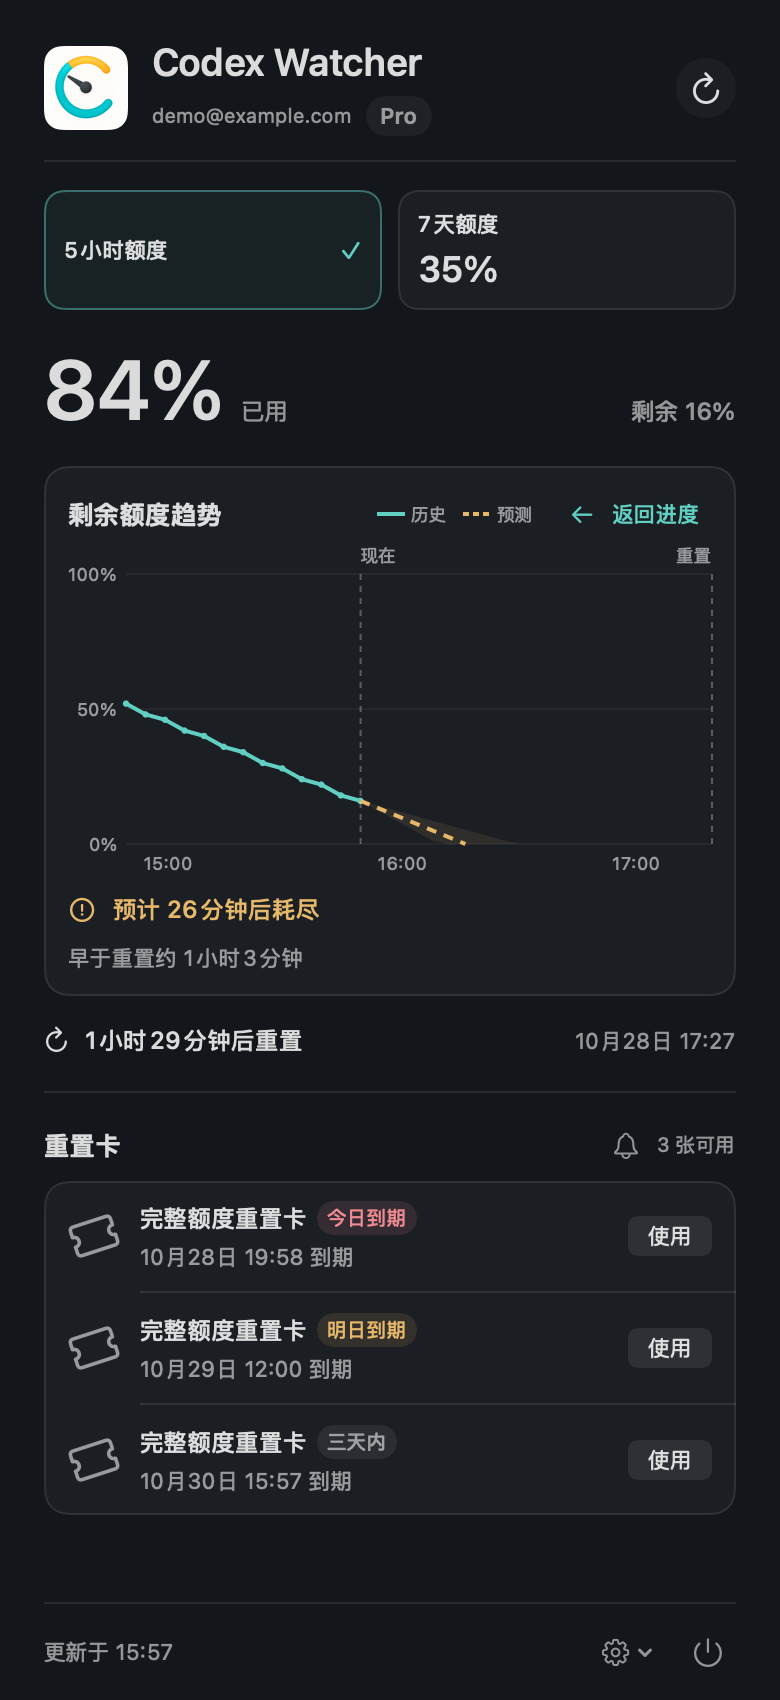
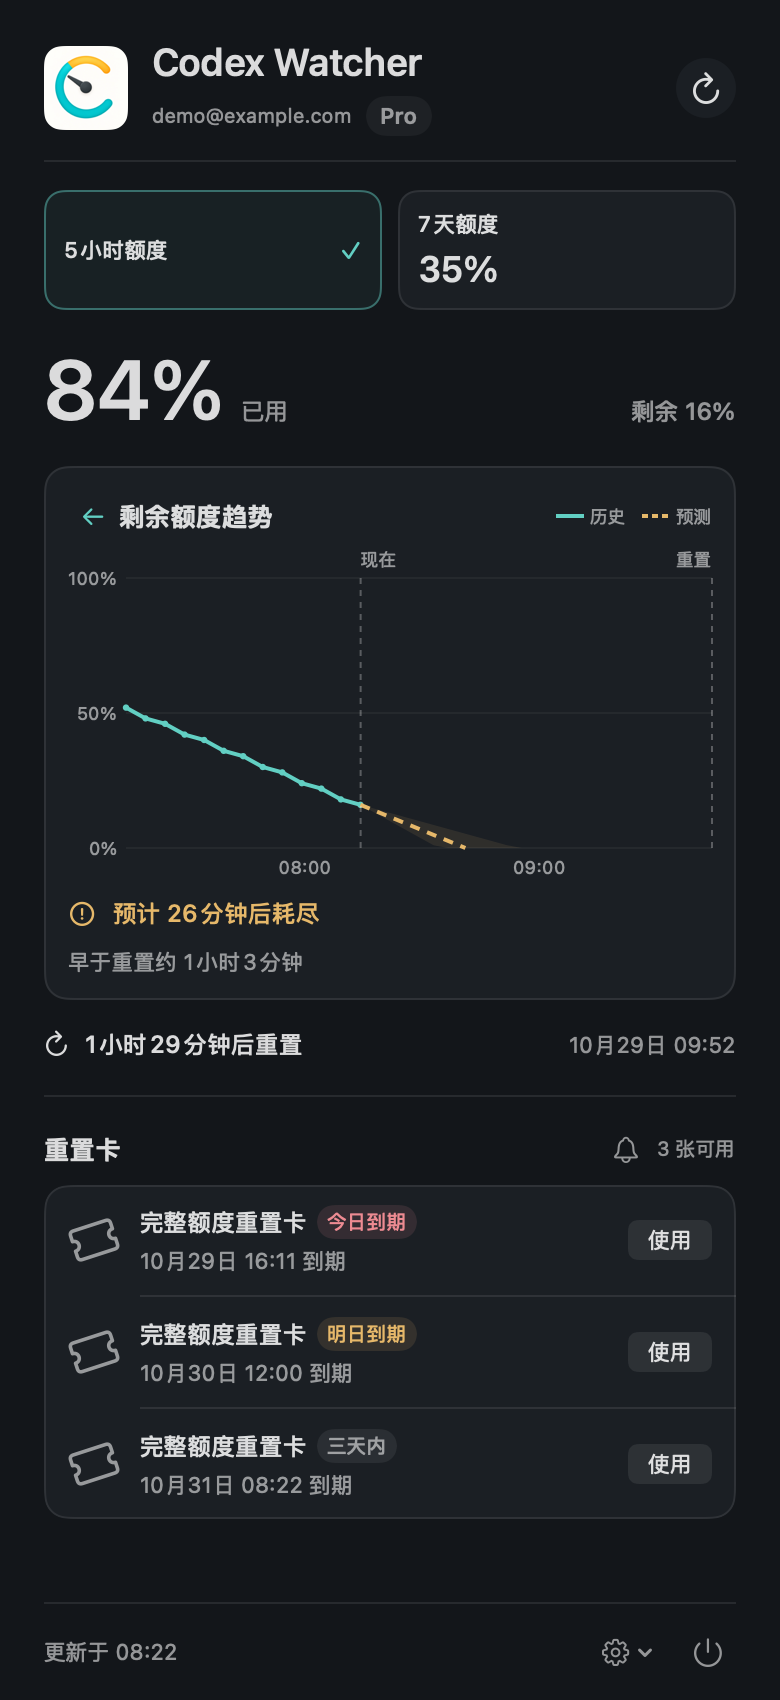
fix: simplify trend navigation and prepare 0.4.3

diff --git a/CodexWatcher/ContentView.swift b/CodexWatcher/ContentView.swift
@@ -305,12 +305,16 @@ private struct DashboardContent: View {
             if showingUsageTrend {
                 UsageTrendView(samples: monitor.trendHistory[window.id] ?? [], quota: window.quota,
                                date: date, stale: stale, storageFailed: monitor.trendStorageFailed,
-                               recoveredHistory: monitor.trendStorageRecovered, headerAction: AnyView(
+                               recoveredHistory: monitor.trendStorageRecovered, headerTitle: AnyView(
                     Button {
                         changeUsagePresentation(false)
                     } label: {
-                        Label("返回进度", systemImage: "arrow.left")
-                            .font(.system(size: 11, weight: .medium))
+                        HStack(spacing: 6) {
+                            Image(systemName: "arrow.left")
+                                .font(.system(size: 11, weight: .medium))
+                                .foregroundStyle(palette.accent)
+                            Text("剩余额度趋势").font(.headline)
+                        }
                             .padding(.horizontal, 6).padding(.vertical, 5)
                             .background(hoveringReturnProgress ? palette.selectedSurface : .clear,
                                         in: RoundedRectangle(cornerRadius: 8))
@@ -319,7 +323,9 @@ private struct DashboardContent: View {
                             .contentShape(Rectangle())
                     }
                     .buttonStyle(.plain)
-                    .foregroundStyle(palette.accent)
+                    .foregroundStyle(.primary)
+                    .help("返回进度")
+                    .accessibilityHint("返回进度")
                     .focusable()
                     .focused($usageControlFocused)
                     .onKeyPress(.space, phases: .down) { _ in

diff --git a/CodexWatcher/UsageTrendView.swift b/CodexWatcher/UsageTrendView.swift
@@ -8,7 +8,7 @@ struct UsageTrendView: View {
     let stale: Bool
     let storageFailed: Bool
     var recoveredHistory = false
-    var headerAction: AnyView? = nil
+    var headerTitle: AnyView? = nil
     @Environment(\.locale) private var locale
     @Environment(\.timeZone) private var timeZone
     @Environment(\.colorScheme) private var colorScheme
@@ -28,11 +28,14 @@ struct UsageTrendView: View {
     var body: some View {
         VStack(alignment: .leading, spacing: 10) {
             HStack {
-                Text("剩余额度趋势").font(.headline)
+                if let headerTitle {
+                    headerTitle
+                } else {
+                    Text("剩余额度趋势").font(.headline)
+                }
                 Spacer()
                 legend("历史", color: palette.accent, dashed: false)
                 legend("预测", color: palette.warning, dashed: true)
-                if let headerAction { headerAction.padding(.leading, 4) }
             }
             Chart {
                 ForEach(Array(history.enumerated()), id: \.offset) { _, sample in
@@ -108,7 +111,7 @@ struct UsageTrendView: View {
         .padding(12)
         .background(palette.surface, in: RoundedRectangle(cornerRadius: 12))
         .overlay(RoundedRectangle(cornerRadius: 12).strokeBorder(palette.separator))
-        .help("根据最近一小时的消耗速度推算，至少需要 10 分钟及 3 个采样点。实线为历史，虚线为预测；淡色范围来自已观测的不同消耗速度，并非统计置信区间。预测随使用强度变化，仅供参考；中断采样或额度恢复后重新积累样本。")
+        .help("按近一小时用量估算，阴影反映消耗速度差异，仅供参考。")
     }
 
     private var warning: Bool {

diff --git a/docs/images/README.md b/docs/images/README.md
@@ -10,7 +10,7 @@
 | [dashboard-dark.png](dashboard-dark.png) | 暗色面板 |
 | [dashboard-progress-hover-light.png](dashboard-progress-hover-light.png) | 全宽进度轴与向外延伸的悬停热区（亮色） |
 | [dashboard-progress-hover-dark.png](dashboard-progress-hover-dark.png) | 全宽进度轴与悬停热区（暗色） |
-| [dashboard-trend-full-light.png](dashboard-trend-full-light.png) | 点击进度区域切换后的趋势视图与重置卡（亮色，拉高窗口展示） |
+| [dashboard-trend-full-light.png](dashboard-trend-full-light.png) | 点击进度区域切换后的趋势视图与重置卡，点击左侧标题返回（亮色，拉高窗口展示） |
 | [dashboard-trend-full-dark.png](dashboard-trend-full-dark.png) | 切换后的趋势视图（暗色，拉高窗口展示） |
 | [usage-trend-light.png](usage-trend-light.png) | 剩余额度历史、走势范围与预测耗尽时间（亮色） |
 | [usage-trend-dark.png](usage-trend-dark.png) | 剩余额度历史与预测（暗色） |

diff --git a/CHANGELOG.md b/CHANGELOG.md
@@ -2,6 +2,11 @@
 
 ## 未发布
 
+## 0.4.3 — 2026-10-29
+
+- 将趋势面板的返回操作合并到左侧标题，移除右侧独立按钮；保留悬停、键盘聚焦与空格键返回。
+- 精简趋势悬停说明，保留估算依据和阴影含义，同步更新中英文翻译。
+
 ## 0.4.2 — 2026-10-28
 
 - 将翻译迁入 String Catalog，统一带类型插值的本地化入口，移除按中英文分支选资源的限制；卡片数量支持复数规则，SwiftPM 兼容资源由目录自动生成并在 CI 校验；生成脚本可覆盖修复损坏的旧资源，清理无引用翻译键。
